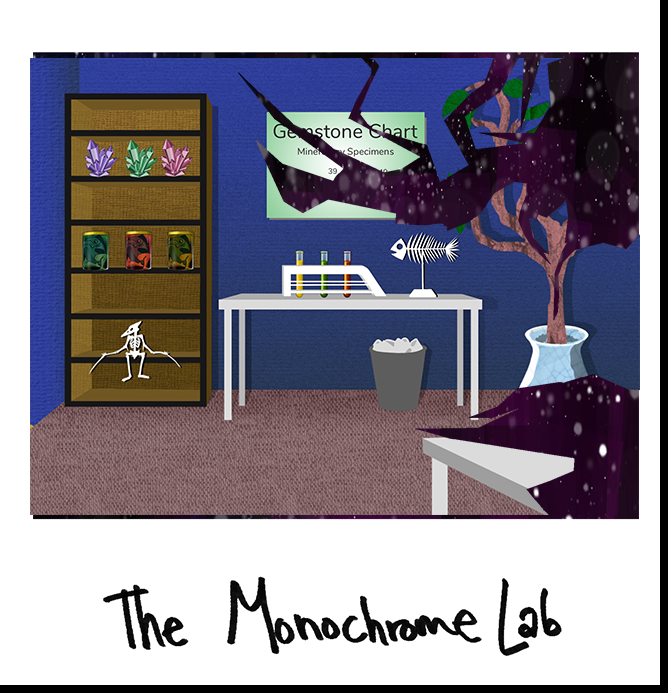
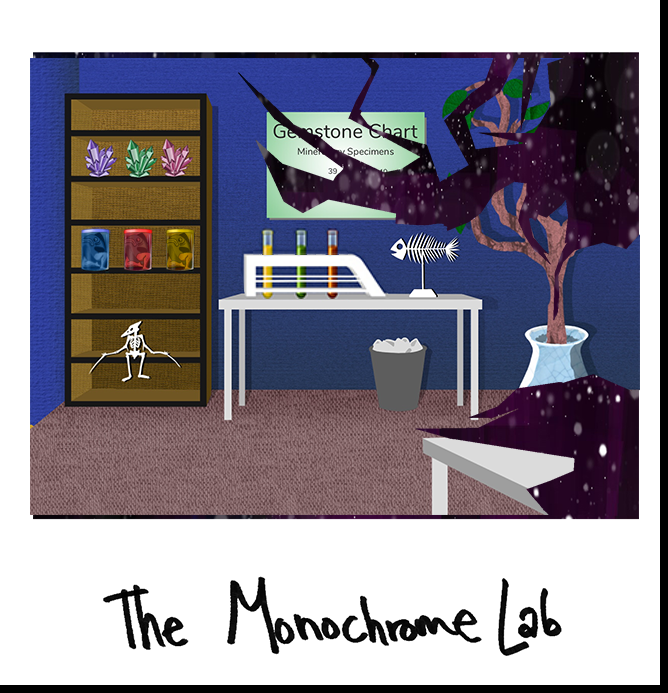
V1.0.1
Hot Fixes

Changed region(s): [[0.3593, 0.3333, 0.5689, 0.4545], [0.1198, 0.303, 0.2994, 0.3939]]

diff --git a/Assets/Scripts/Puzzle/Mono.cs b/Assets/Scripts/Puzzle/Mono.cs
@@ -32,11 +32,39 @@ public class Mono : MonoBehaviour
 
         if (!started)
         {
-            for (int i = 0; i < 20; i++)
+            bool set1Correct = true;
+            bool set2Correct = true;
+            bool set3Correct = true;
+            while (set1Correct || set2Correct || set3Correct)
             {
                 Swap(set1[Random.Range(0, set1.Length)], set1[Random.Range(0, set1.Length)]);
                 Swap(set2[Random.Range(0, set2.Length)], set2[Random.Range(0, set2.Length)]);
                 Swap(set3[Random.Range(0, set3.Length)], set3[Random.Range(0, set3.Length)]);
+
+                set1Correct = true;
+                foreach (DraggableWithColor obj in set1)
+                {
+                    if (obj.id != obj.winId)
+                    {
+                        set1Correct = false;
+                    }
+                }
+                set2Correct = true;
+                foreach (DraggableWithColor obj in set2)
+                {
+                    if (obj.id != obj.winId)
+                    {
+                        set2Correct = false;
+                    }
+                }
+                set3Correct = true;
+                foreach (DraggableWithColor obj in set3)
+                {
+                    if (obj.id != obj.winId)
+                    {
+                        set3Correct = false;
+                    }
+                }
             }
             started = true;
         }

diff --git a/Assets/Scripts/Puzzle/Prisms/SymbolCodeCheck.cs b/Assets/Scripts/Puzzle/Prisms/SymbolCodeCheck.cs
@@ -49,7 +49,7 @@ public class SymbolCodeCheck : MonoBehaviour
 
         for (int i = 0; i < solution.Length; i++)
         {
-            if (solution[i] != symbols[i].currentColorString)
+            if (solution[i] != symbols[i].currentColorString && solution[i] != "off")
             {
                 correct = false;
             }
@@ -58,6 +58,13 @@ public class SymbolCodeCheck : MonoBehaviour
         if (correct)
         {
             winEvent.Invoke();
+            for (int i = 0; i < solution.Length; i++)
+            {
+                if (solution[i] == "off")
+                {
+                    symbols[i].Off();
+                }
+            }
             foreach (Symbol symbol in symbols)
             {
                 symbol.locked = true;

diff --git a/Assets/Scripts/UI/ActivateDialogue.cs b/Assets/Scripts/UI/ActivateDialogue.cs
@@ -22,8 +22,8 @@ public class ActivateDialogue : MonoBehaviour, IPointerDownHandler
 
     private bool inCycle = false; //track if text is displaying
     public static float delay = 0.025f;
-    public static float fadeOutTime = 3f; 
-    public static float timeToRead = 2f;
+    public static float fadeOutTime = 1f; 
+    public static float timeToRead = 6f;
 
     private string[] wordsInDialogue;
     private string originalDialogue;

diff --git a/Assets/Scripts/Puzzle/Prisms/Symbol.cs b/Assets/Scripts/Puzzle/Prisms/Symbol.cs
@@ -65,4 +65,11 @@ public class Symbol : MonoBehaviour
             soundManager.Play("lightButton");
         }
     }
+
+    public void Off()
+    {
+        currentColorInt = 0;
+        currentColorString = colors[0];
+        GetComponent<Image>().sprite = colorSprites[0];
+    }
 }
